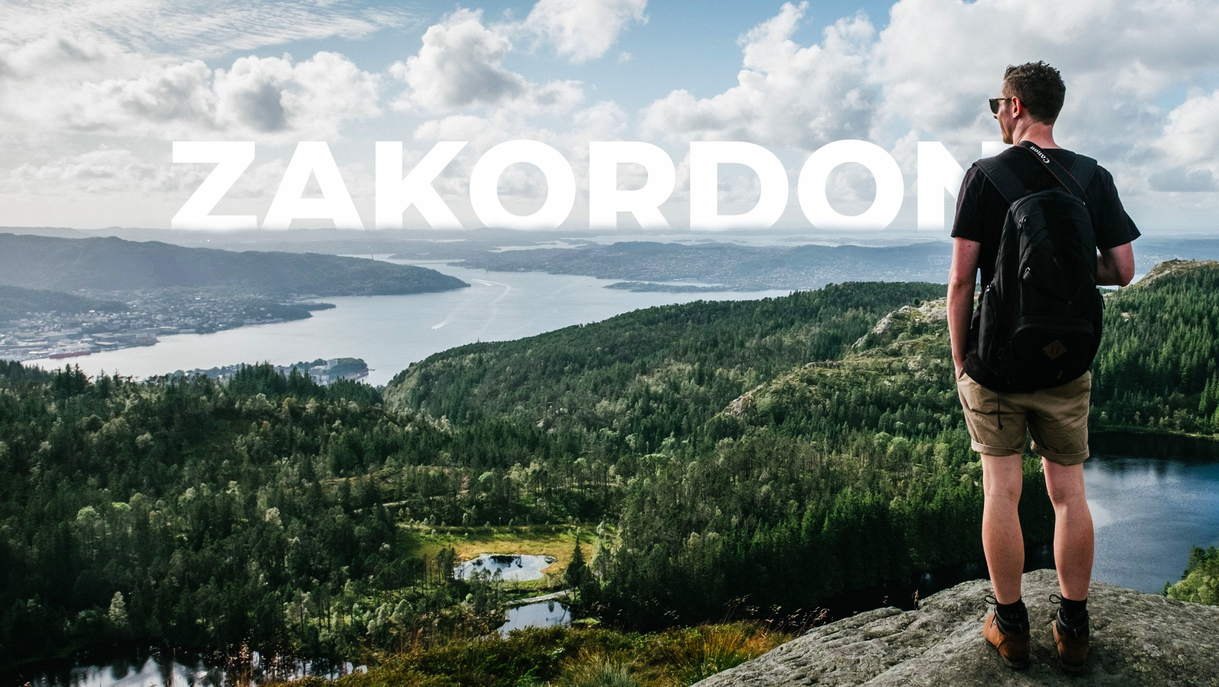
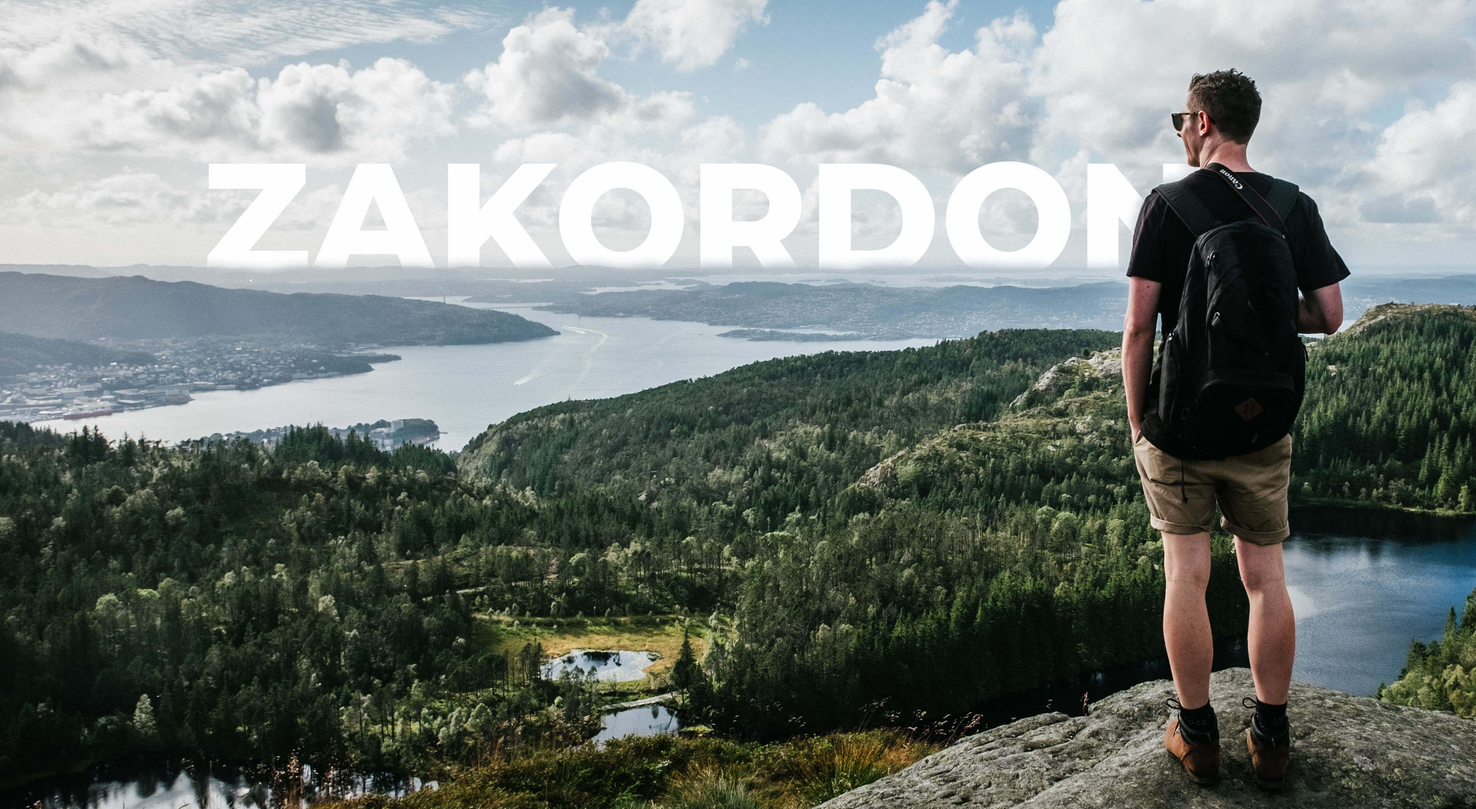
made desktop header

diff --git a/css/styles.min.css b/css/styles.min.css
@@ -1,2 +1,2 @@
-@import url("https://fonts.googleapis.com/css?family=Montserrat:400,700,800,900&display=swap");:root{--blue: #28288B}html,body,div,span,applet,object,iframe,h1,h2,h3,h4,h5,h6,p,blockquote,pre,a,abbr,acronym,address,big,cite,code,del,dfn,em,img,ins,kbd,q,s,samp,small,strike,strong,sub,sup,tt,var,b,u,i,center,dl,dt,dd,ol,ul,li,fieldset,form,label,legend,table,caption,tbody,tfoot,thead,tr,th,td,article,aside,canvas,details,embed,figure,figcaption,footer,header,hgroup,menu,nav,output,ruby,section,summary,time,mark,audio,video{margin:0;padding:0;border:0;font-size:100%;font:inherit;vertical-align:baseline}article,aside,details,figcaption,figure,footer,header,hgroup,menu,nav,section{display:block}body{line-height:1}ol,ul{list-style:none}blockquote,q{quotes:none}blockquote:before,blockquote:after,q:before,q:after{content:'';content:none}table{border-collapse:collapse;border-spacing:0}*{padding:0;margin:0;border:0;outline:none;-webkit-box-sizing:border-box;box-sizing:border-box}img{max-width:100%;height:auto}html{height:100%;scroll-behavior:smooth}body,html{min-height:100%;width:100%}.clear::after,.clear::before{content:" ";display:table}.clear::after{clear:both}.header{position:relative;background:url(/images/header-bg.jpg);background-size:cover;position:absolute;width:1366px;height:740px;left:0px;top:0px;font:18px "Montserrat",sans-serif}.menu{display:-webkit-box;display:-ms-flexbox;display:flex;-webkit-box-orient:horizontal;-webkit-box-direction:normal;-ms-flex-direction:row;flex-direction:row;-webkit-box-pack:justify;-ms-flex-pack:justify;justify-content:space-between}.menu__logo{position:absolute;top:0;left:112px}.navigation{position:absolute;top:22px;right:113px}.nav{display:-webkit-box;display:-ms-flexbox;display:flex;-webkit-box-orient:horizontal;-webkit-box-direction:normal;-ms-flex-direction:row;flex-direction:row}.nav__link{text-decoration:none;-webkit-transition:all .3s;transition:all .3s}.nav__link:hover{-webkit-transform:scale(1.1);transform:scale(1.1)}.nav__item{text-transform:uppercase;margin:0 25px;color:var(--blue);font-weight:700}.title{position:absolute;top:65%;left:15%}.title h1{font:48px "Montserrat",sans-serif;font-weight:700;color:white;text-transform:uppercase}
+@import url("https://fonts.googleapis.com/css?family=Montserrat:400,700,800,900&display=swap");:root{--blue: #000091;--red: #C60220;--black: #111111;--white: #ffffff}html,body,div,span,applet,object,iframe,h1,h2,h3,h4,h5,h6,p,blockquote,pre,a,abbr,acronym,address,big,cite,code,del,dfn,em,img,ins,kbd,q,s,samp,small,strike,strong,sub,sup,tt,var,b,u,i,center,dl,dt,dd,ol,ul,li,fieldset,form,label,legend,table,caption,tbody,tfoot,thead,tr,th,td,article,aside,canvas,details,embed,figure,figcaption,footer,header,hgroup,menu,nav,output,ruby,section,summary,time,mark,audio,video{margin:0;padding:0;border:0;font-size:100%;font:inherit;vertical-align:baseline}article,aside,details,figcaption,figure,footer,header,hgroup,menu,nav,section{display:block}body{line-height:1}ol,ul{list-style:none}blockquote,q{quotes:none}blockquote:before,blockquote:after,q:before,q:after{content:'';content:none}table{border-collapse:collapse;border-spacing:0}*{padding:0;margin:0;border:0;outline:none;-webkit-box-sizing:border-box;box-sizing:border-box}img{max-width:100%;height:auto}html{height:100%;scroll-behavior:smooth}body,html{min-height:100%;width:100%}.clear::after,.clear::before{content:" ";display:table}.clear::after{clear:both}.header{background:url(/images/header-bg.jpg) no-repeat center;background-size:cover;font-family:"Montserrat",sans-serif;height:100vh}.row{position:relative;display:-webkit-box;display:-ms-flexbox;display:flex;-webkit-box-orient:horizontal;-webkit-box-direction:normal;-ms-flex-direction:row;flex-direction:row;margin-bottom:20px}.logo{padding-left:100px;-webkit-transition:all .3s;transition:all .3s}@media (max-width: 767px){.logo{display:-webkit-box;display:-ms-flexbox;display:flex;-webkit-box-align:center;-ms-flex-align:center;align-items:center;-webkit-box-pack:center;-ms-flex-pack:center;justify-content:center}}.logo:hover{-webkit-transform:scale(1.1);transform:scale(1.1)}.nav{padding-left:100px;display:-webkit-box;display:-ms-flexbox;display:flex;-webkit-box-orient:horizontal;-webkit-box-direction:normal;-ms-flex-direction:row;flex-direction:row;-webkit-box-align:center;-ms-flex-align:center;align-items:center}@media (max-width: 1200px){.nav{display:none}}.icon{fill:blue;width:50px}@media (min-width: 1200px){.icon{display:none}}.menu{padding-left:100px;display:-webkit-box;display:-ms-flexbox;display:flex;-webkit-box-orient:horizontal;-webkit-box-direction:normal;-ms-flex-direction:row;flex-direction:row;-webkit-box-align:center;-ms-flex-align:center;align-items:center}.menu__item{color:var(--blue);font-size:18px;font-weight:700;text-transform:uppercase;padding-left:30px;-webkit-transition:all .3s;transition:all .3s}.menu:first-child{padding-left:0}.menu__item:hover{-webkit-transform:scale(1.1);transform:scale(1.1)}.menu a{text-decoration:none}.title{display:-webkit-box;display:-ms-flexbox;display:flex;-webkit-box-align:center;-ms-flex-align:center;align-items:center}.title__text{margin:0 auto;padding-top:350px;color:var(--white);font-size:48px;font-weight:700}
 /*# sourceMappingURL=styles.min.css.map */

diff --git a/scss/modules/_header.scss b/scss/modules/_header.scss
@@ -1,69 +1,105 @@
 .header {
-    position: relative;
-    background: url(/images/header-bg.jpg);
-    background-size: cover;
-    position: absolute;
-    width: 1366px;
-    height: 740px;
-    left: 0px;
-    top: 0px;
-    font: 18px $mont;
 
+    background: url(/images/header-bg.jpg) no-repeat center;
+    background-size: cover;
+    font-family: $mont;
+    height: 100vh;
 }
 
-.menu {
+
+.row {
+    position: relative;
     display: flex;
     flex-direction: row;
-    justify-content: space-between;
-
-    &__logo {
-        position: absolute;
-        top: 0;
-        left: 112px;
-    }
+    margin-bottom: 20px;
 }
 
-.navigation {
-    position: absolute;
-    top: 22px;
-    right: 113px;
+.logo {
+    @media (max-width: $mobile) {
+        display: flex;
+        align-items: center;
+        justify-content: center;
+    }
+
+    padding-left: 100px;
+    transition: all .3s;
+
+
+
+    &:hover {
+        transform: scale(1.1);
+    }
 
 }
 
 .nav {
+    padding-left: 100px;
     display: flex;
     flex-direction: row;
+    align-items: center;
 
-    &__link {
-        text-decoration: none;
-        transition: all .3s;
-        ;
+    @media (max-width: $desktop) {
+        display: none;
     }
 
-    &__link:hover {
+    &__menu {}
+    
+}
+
+.icon {
+    fill: blue;
+    width: 50px;
+
+    @media (min-width: $desktop) {
+        display: none;
+    }
+
+    // @media (max-width: $mobile) {
+    //     display: ;
+    // }
+}
+
+.menu {
+    padding-left: 100px;
+    display: flex;
+    flex-direction: row;
+    align-items: center;
+
+
+
+
+    &__item {
+        color: var(--blue);
+        font-size: 18px;
+        font-weight: 700;
+        text-transform: uppercase;
+        padding-left: 30px;
+        transition: all .3s;
+    }
+
+    &:first-child {
+        padding-left: 0;
+    }
+
+    &__item:hover {
         transform: scale(1.1);
     }
 
-    &__item {
-        text-transform: uppercase;
-        margin: 0 25px;
-        color: var(--blue);
-        font-weight: 700;
+    a {
+        text-decoration: none;
     }
 }
 
 .title {
-    position: absolute;
-    top: 65%;
-    left: 15%;
-    
+    display: flex;
+    align-items: center;
 
-    h1 {
-        font: 48px $mont;
+    &__text {
+        margin: 0 auto;
+        padding-top: 350px;
+        color: var(--white);
+        font-size: 48px;
         font-weight: 700;
-        color: white;
-        text-transform: uppercase;
+
     }
-
-
 }

diff --git a/index.html b/index.html
@@ -11,6 +11,7 @@
 
 	<link rel="icon" href="images/favicon.png">
 	<link rel="stylesheet" href="css/bootstrap-grid.min.css">
+	<link rel="stylesheet" href="images/sprite.svg">
 	<link rel="stylesheet" href="css/styles.min.css">
 
 	<!--[if lt IE 9]>
@@ -19,26 +20,49 @@
 </head>
 
 <body>
-	<div class="container">
-		<div class="header">
-			<div class="menu">
-				<div class="menu__logo">
-					<img src="/images/zak.png" alt="" width="200px">
+
+	<section class="header">
+		<div class="container">
+			<div class="main">
+				<div class="row">
+					<div class="logo">
+						<img src="images/logo.png" alt="logo" width="200px">
+					</div>
+
+					<div class="nav">
+						<div class="nav__menu">
+							<i class="burger-menu"> <!--ICON MENU-->
+								<svg class="icon">
+									<use xlink:href="images/sprite.svg#iconfinder_icon-menu_2867922"></use>
+								</svg>
+							</i>
+						</div>
+						<ul class="menu">
+							<a href="#">
+								<li class="menu__item">о нас</li>
+							</a>
+							<a href="#">
+								<li class="menu__item">работа</li>
+							</a>
+							<a href="#">
+								<li class="menu__item">авиабилеты</li>
+							</a>
+							<a href="#">
+								<li class="menu__item">контакты</li>
+							</a>
+							<a href="#">
+								<li class="menu__item">отзывы</li>
+							</a>
+						</ul>
+					</div>
 				</div>
-				<div class="navigation">
-					<ul class="nav">
-						<a href="#" class="nav__link"><li class="nav__item">о нас</li></></a>
-						<a href="#" class="nav__link"><li class="nav__item">работа</li></a>
-						<a href="#" class="nav__link"><li class="nav__item">авиабилеты</li></a>
-						<a href="#" class="nav__link"><li class="nav__item">контакты</li></a>
-						<a href="#" class="nav__link"><li class="nav__item">отзывы</li></a>
-					</ul>
+				<div class="title">
+					<h1 class="title__text">Сезонная работа в Норвегии</h1>
 				</div>
-			</div>
-			<div class="title">
-				<h1>сезонная работа в норвегии</h1>
 			</div>
 		</div>
+	</section>
+
 
 </body>
 

diff --git a/scss/base/_variables.scss b/scss/base/_variables.scss
@@ -1,6 +1,9 @@
 // ROOTS
 :root {
-    --blue: #28288B;
+    --blue: #000091;
+    --red: #C60220;
+    --black: #111111;
+    --white: #ffffff;
 }
 
 
@@ -9,4 +12,7 @@ $mont: 'Montserrat', sans-serif;
 
 
 
-// COLORS
+// MOBILE / TABLETS / Desktop
+$m-portrait: 480px;
+$mobile: 767px;
+$desktop: 1200px;
